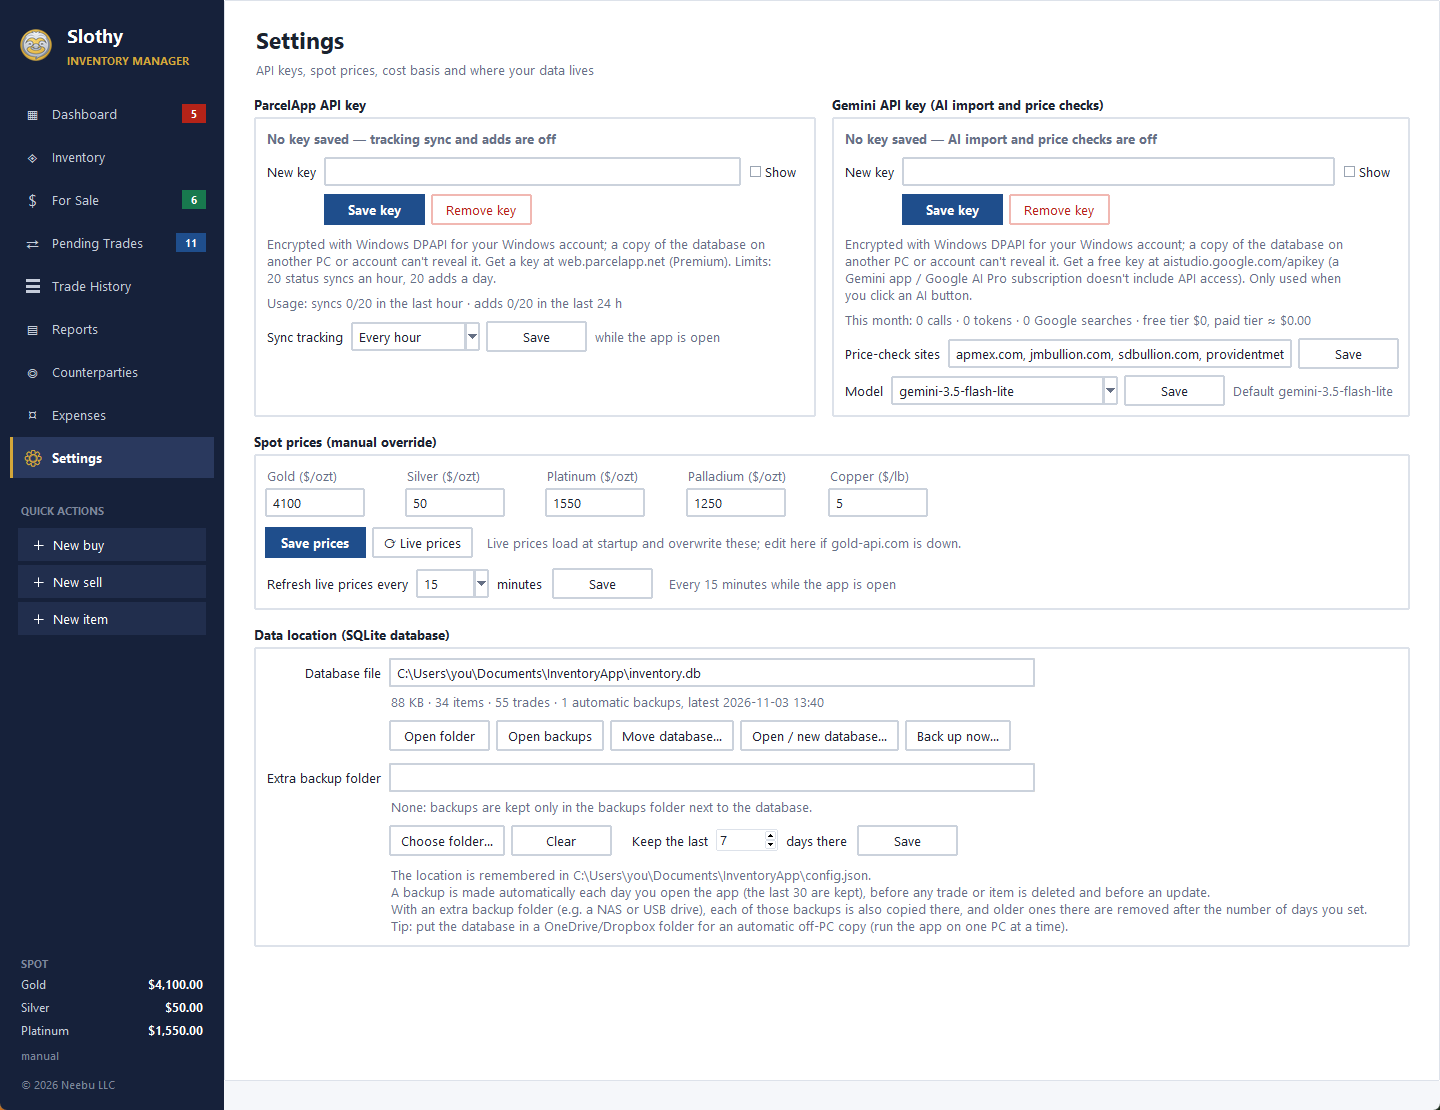
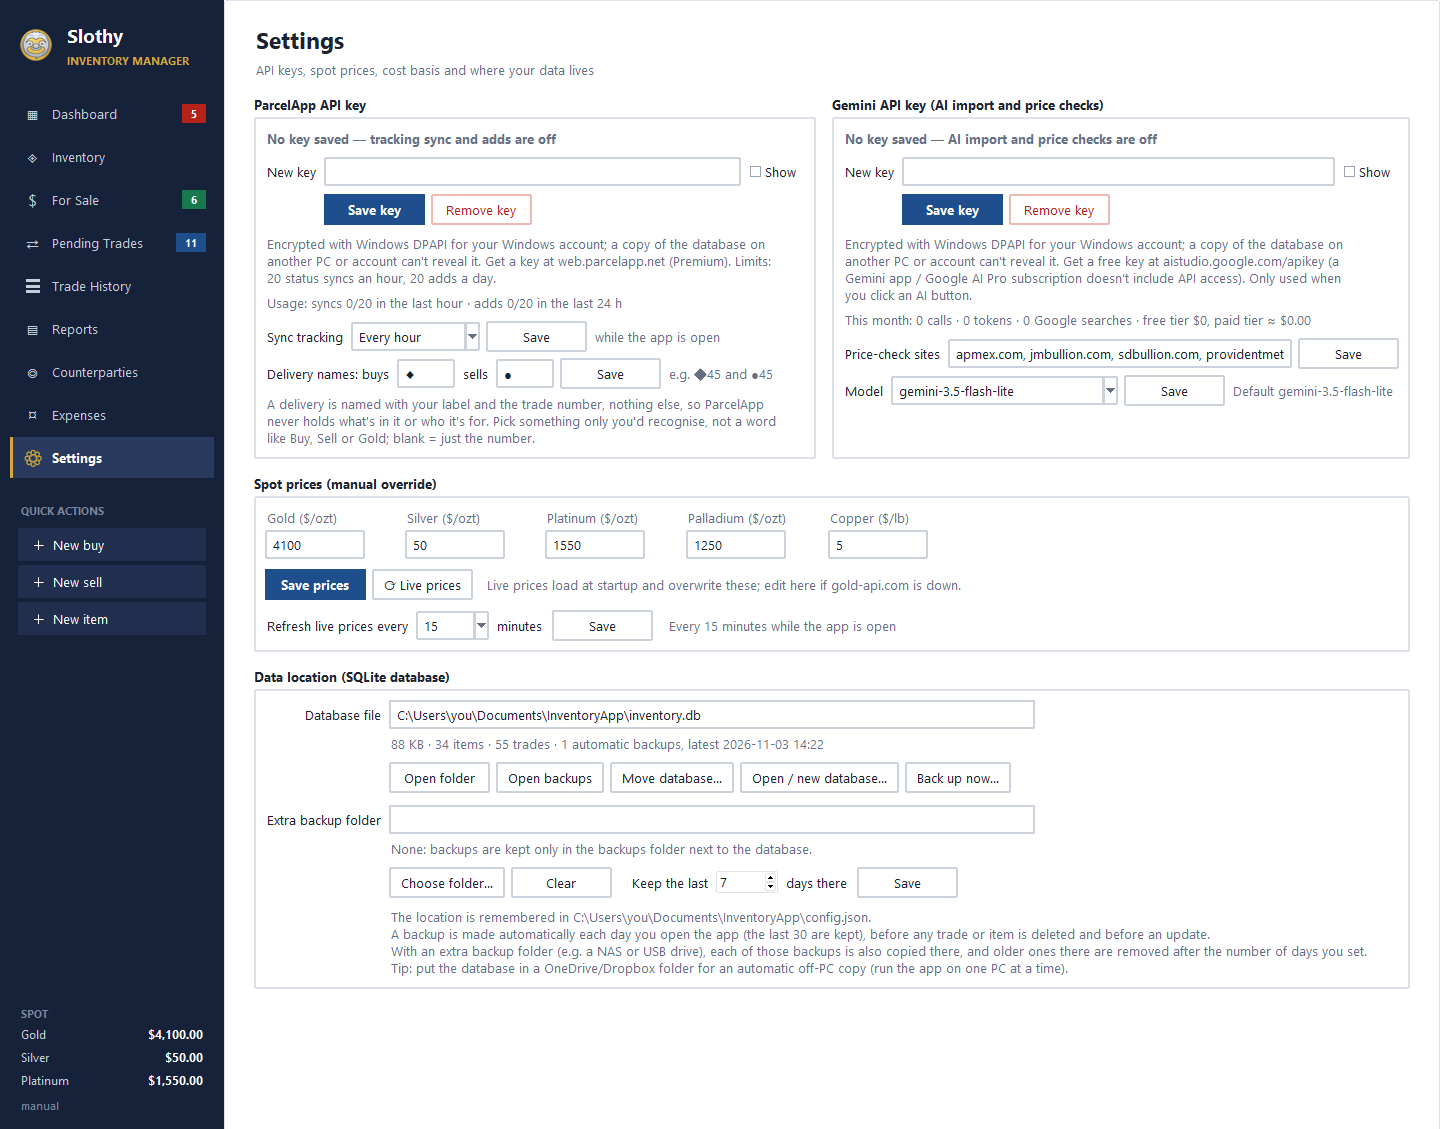
Guides: private delivery names, no dealer codes; Settings picture with the new row

diff --git a/WORKFLOW.md b/WORKFLOW.md
@@ -28,7 +28,7 @@ gold-api.com for spot prices, Gemini for the optional AI features, and GitHub to
 | **Product** | Serialised items with the same metal, name, mint, weight and grade. Inventory folds them under one bold row. |
 | **Trade** | A Buy or a Sell, with a counterparty, date, item lines (qty × unit price), shipping, fees, tracking and status. |
 | **Status** | Where a trade is in its workflow: open (Pending Trades) or final (Trade History). See [Workflows](#workflows). |
-| **Counterparty** | Who you trade with. Its type (Reddit (P2P), eBay, Whatnot, Online, Coin Shop, Coin Show) decides its ParcelApp name. |
+| **Counterparty** | Who you trade with, with a type: Reddit (P2P), eBay, Whatnot, Online, Coin Shop or Coin Show. |
 | **Your numbers** | Worked out again on every refresh from all final trades: on-hand qty, average cost, sold qty, revenue, cost of goods sold, realized P/L. |
 | **Expenses** | Shipping, materials, fees and other costs. Never part of an item's cost; subtracted from P/L in Trade History and Reports. |
 
@@ -298,8 +298,11 @@ serial with its own photo can also have *This serial's picture*, shown instead o
 - **⟳ Sync tracking** reads all recent deliveries in one call (20 an hour). It runs when the app opens too, and
   every hour or 2 hours if you set *Sync tracking* in Settings. Numbers you added in the Parcel app directly are
   picked up as added.
-- Delivery names: `B:10-28/EBY/exampleuser` for Reddit (RDDT), eBay (EBY) and Whatnot (WNOT) counterparties;
-  `B:10-28/APMX` for Online, Coin Shop and Coin Show, using the counterparty's 4-character code.
+- **Delivery names:** a delivery is named only with a short label for buys or sells and the trade number, so
+  ParcelApp never holds what's in a package or who it's for. Set your own labels in Settings → ParcelApp →
+  *Delivery names*: something you'll recognise in the Parcel app (an arrow or a symbol works well), not a word
+  like Buy, Sell or Gold. Leave them blank for just the trade number. The number matches the trade in Pending
+  Trades.
 - The carrier comes from the shipping method: UPS, FedEx, otherwise USPS. Failed adds appear under *Needs attention*
   and are never retried automatically.
 
@@ -351,9 +354,10 @@ Reports shows how each month went. Pick a year, or All years, at the top.
 
 ### Counterparties
 
-- Created automatically from trades. Set the type correctly: it drives the ParcelApp name.
-- Online dealers carry a 4-character code (APMEX = APMX, BOLD, JM Bullion = JMBL, Monument Metals = MONU, SD Bullion =
-  SDBL, Scottsdale Mint = SCMT, Costco = COST). Change codes in **Edit**.
+- Created automatically from trades, with the type you pick on the trade (it groups them on this page and in
+  Reports' *Sales by channel*).
+- Common online dealers (APMEX, BOLD, JM Bullion, Monument Metals, SD Bullion, Scottsdale Mint, Costco) are already
+  listed. Delete any you don't use.
 - **Show trades** jumps to that counterparty's trades; **＋ Buy from** / **＋ Sell to** starts a trade pre-filled.
 
 ## Daily and weekly routine
@@ -403,7 +407,7 @@ order.
 - Never type quantities onto items; record a trade instead.
 - One serial per item. Typing several serials into one item is only for splitting an item you already bought.
 - Shipping and fees are expenses. Don't fold them into the unit price.
-- Set the counterparty type when you create the trade; the ParcelApp name is fixed when the delivery is added.
+- Pick delivery-name labels that mean nothing to anyone else, and don't share them.
 - Close the app before copying, moving or restoring the database file.
 
 ### Common problems

diff --git a/GUIDE.md b/GUIDE.md
@@ -223,9 +223,11 @@ need Parcel Premium and an API key from web.parcelapp.net. Paste the key into **
   adding again.
 - A failed add (for example, a mistyped number) isn't retried by itself; it shows under *Needs attention*.
 - The carrier comes from the shipping method: UPS, FedEx, otherwise USPS.
-- Deliveries are named so they group nicely in ParcelApp: **B** or **S** (buy or sell), the trade date, then the
-  platform and username, like `S:10-27/RDDT/buyer123` or `B:10-27/EBY/seller456`. Dealers and shops use their
-  4-character code instead, like `B:10-27/APMX`.
+- **Delivery names:** a delivery is named only with a short label for buys or sells and the trade number, so
+  ParcelApp never holds what's in a package or who it's for. Set your own labels in Settings → ParcelApp →
+  *Delivery names*: something you'll recognise in the Parcel app (an arrow or a symbol works well), not a word
+  like Buy, Sell or Gold. Leave them blank for just the trade number. The number matches the trade in Pending
+  Trades.
 
 ## For Sale
 
@@ -259,8 +261,8 @@ Initial Import for sales imported from your spreadsheet. Each shows its address,
 amounts bought and sold, and last trade date.
 
 - Everyone on a trade is added automatically, with the address from their latest trade.
-- Common dealers (APMEX, BOLD, JM Bullion, Monument Metals, SD Bullion, Scottsdale Mint, Costco) come with a
-  4-character **code** used for ParcelApp names. Change a code in **Edit**.
+- Common dealers (APMEX, BOLD, JM Bullion, Monument Metals, SD Bullion, Scottsdale Mint, Costco) are already
+  listed. Delete any you don't use.
 - Renaming a counterparty renames them on all their trades. Someone with trades can be renamed but not deleted.
 - **Show trades**, **＋ Buy from** and **＋ Sell to** start from the selected counterparty.
 
